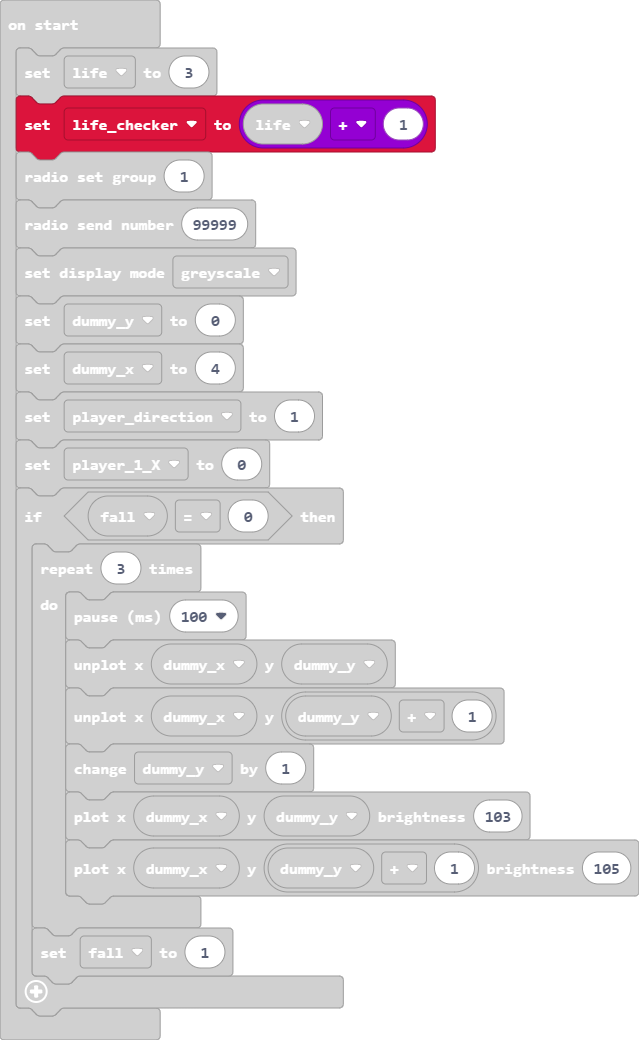
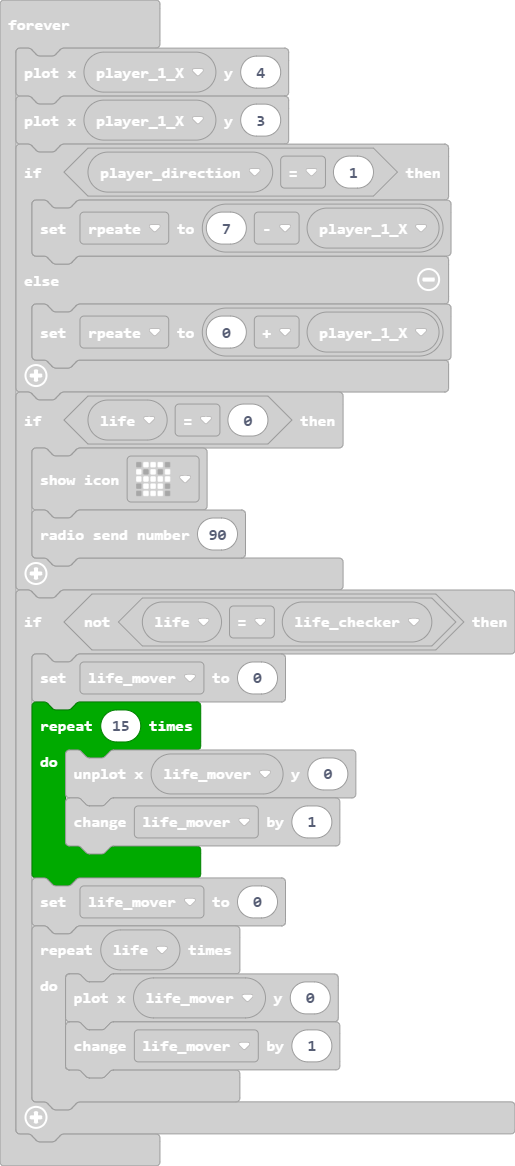
Update main.blocks, main.ts

diff --git a/main.ts b/main.ts
@@ -153,7 +153,7 @@ basic.forever(function () {
     }
     if (!(life == life_checker)) {
         life_mover = 0
-        for (let index = 0; index < life; index++) {
+        for (let index = 0; index < 15; index++) {
             led.unplot(life_mover, 0)
             life_mover += 1
         }
